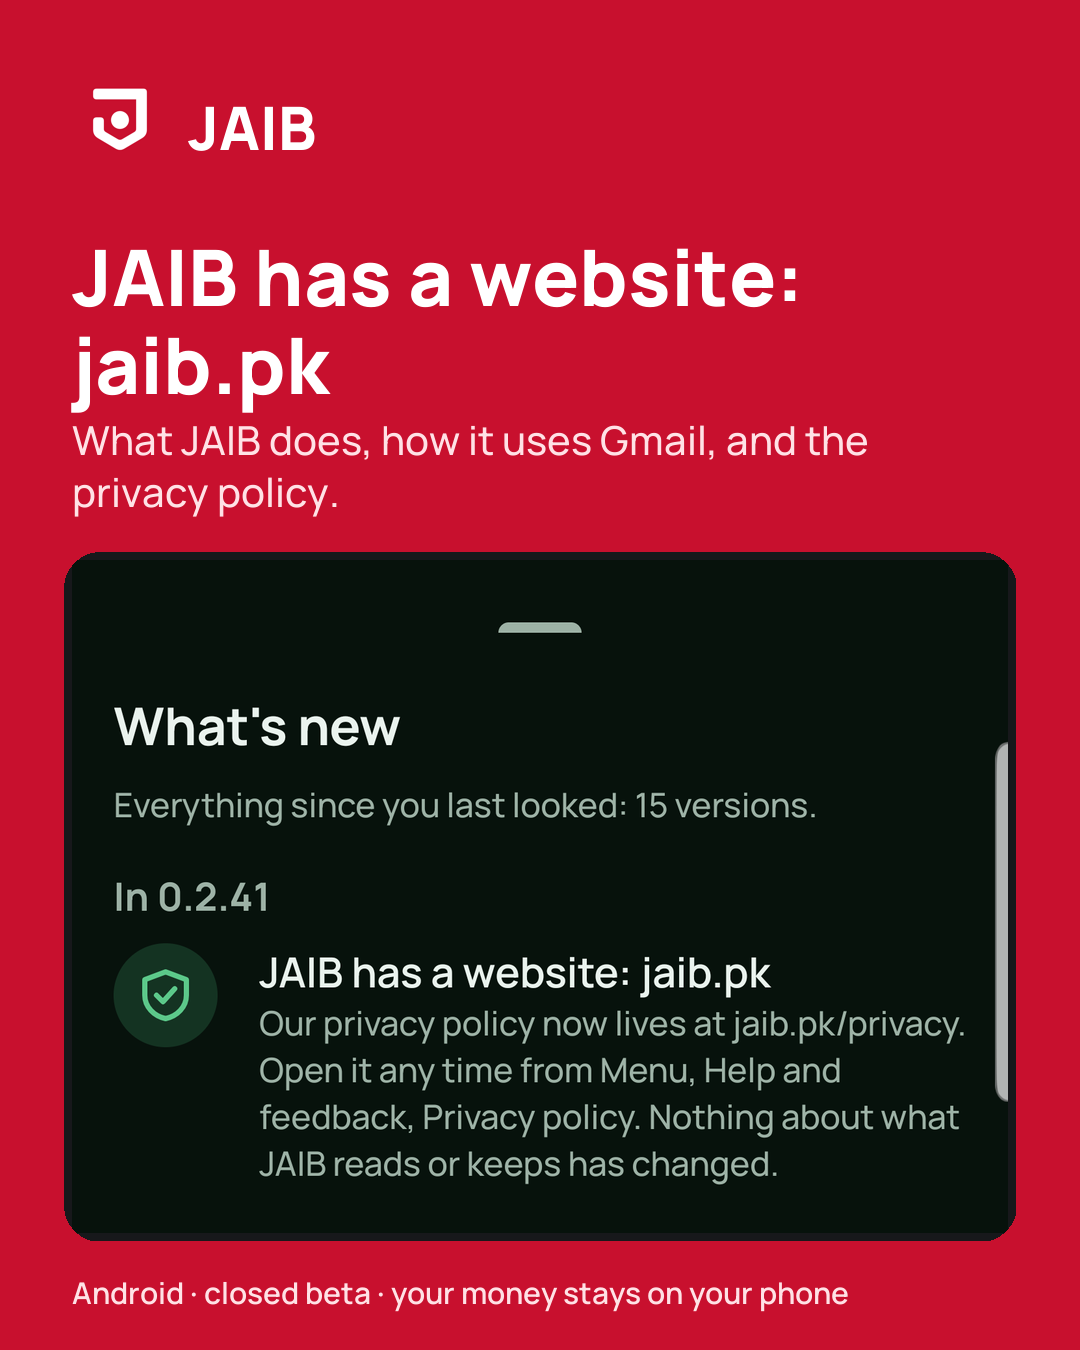
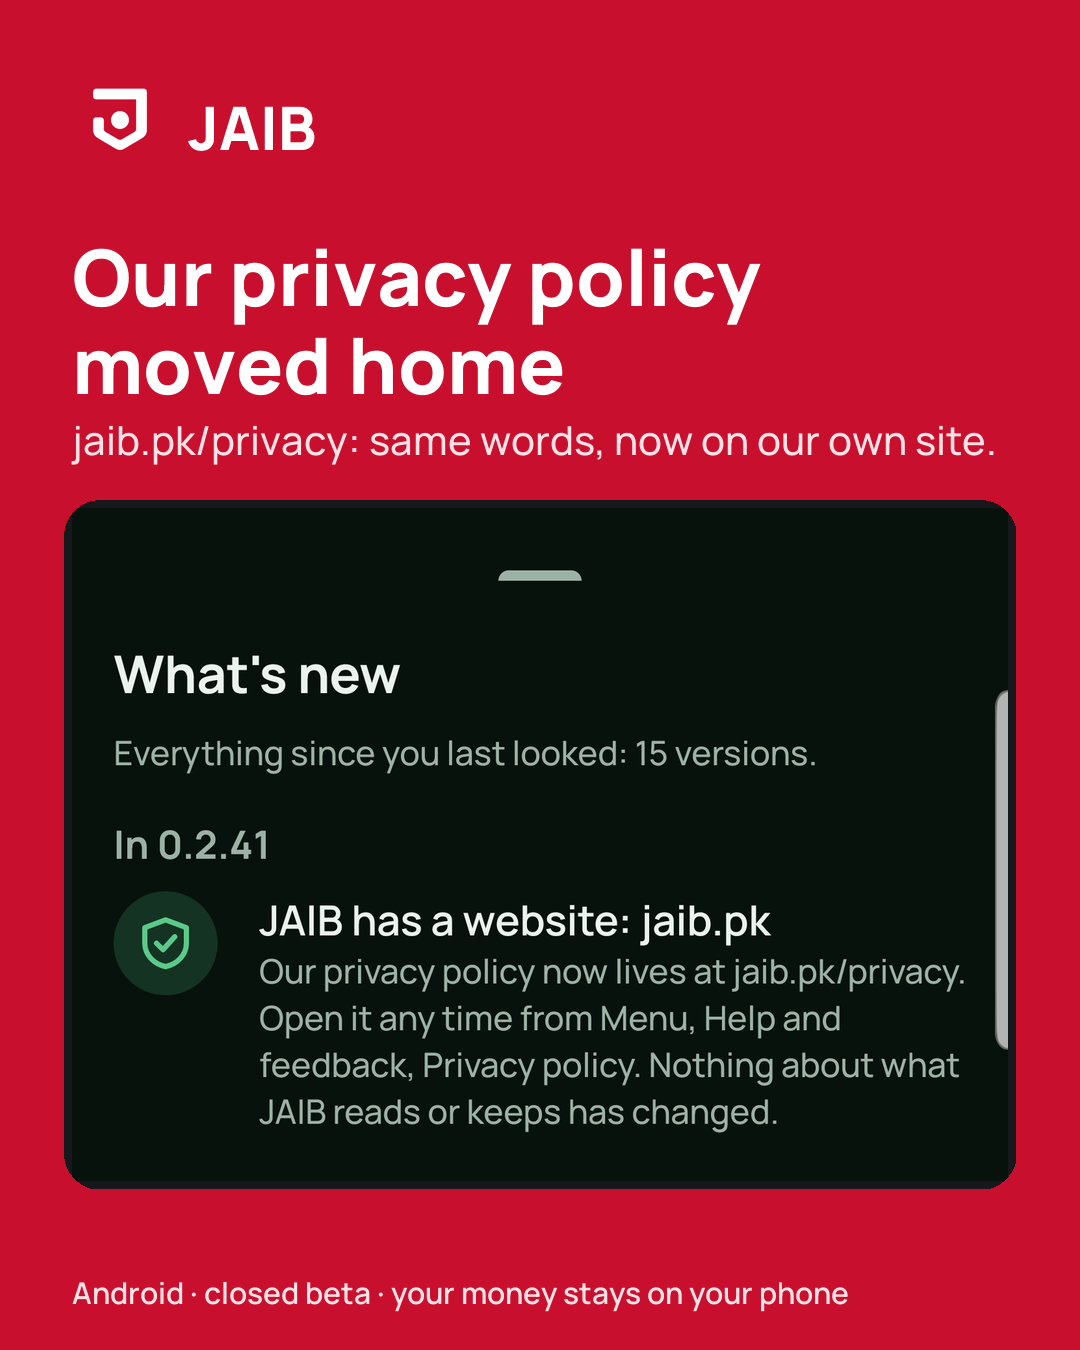
Blog: 0.2.41's post links its posts on JAIB's five accounts; its card matches them

diff --git a/_posts/2026-11-18-privacy-policy-on-jaib-pk.md b/_posts/2026-11-18-privacy-policy-on-jaib-pk.md
@@ -6,6 +6,11 @@ summary: "JAIB's privacy policy now lives at jaib.pk/privacy, and the app opens 
 version: "0.2.41"
 date: 2026-11-18 12:00:00 +0500
 permalink: /blog/privacy-policy-on-jaib-pk/
+tiktok: "https://www.tiktok.com/@jaibpk/photo/7709472222800317703"
+instagram: "https://www.instagram.com/p/Df4ZWcFzcUx/"
+facebook: "https://www.facebook.com/people/JAIB/61596306664204/"
+linkedin: "https://www.linkedin.com/feed/update/urn:li:share:7528779090179530752/"
+youtube: "https://www.youtube.com/post/Ugkx90-KmEuosiiQupDMiO7RcfI9ngxgKItS"
 ---
 
 JAIB is a money app for Pakistan that reads your bank and wallet alerts on your phone and keeps the record there, encrypted.
